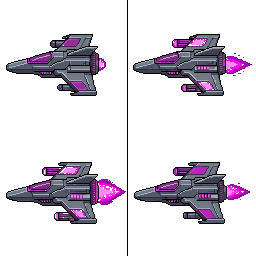
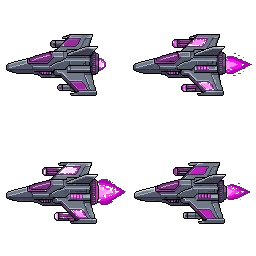
balance: aumentar tamany, vida, spawn y onda expansiva de las minas

diff --git a/Mina.java b/Mina.java
@@ -20,7 +20,7 @@ public class Mina {
   // METODES
   public void actualitzar() {
     if (explotant) {
-      radiExplosio += 5; // L'explosió es fa gran (física de dany expansiu)
+      radiExplosio += 10; // NOU: L'ona expansiva creix el doble de ràpid (abans 5)
       if (this.animacioExplosio != null) {
         this.animacioExplosio.update();
       }
@@ -50,7 +50,8 @@ public class Mina {
         this.animacioExplosio.setLoop(false);
         this.animacioExplosio.setDelay(2);
       }
-      this.animacioExplosio.display(this.posicio, 1, (float)this.tamany / 32.0f);
+      // NOU: Dibuixem l'explosió el doble de gran per a coincidir amb el seu gran radi expansiu (escala /16.0f en comptes de /32.0f)
+      this.animacioExplosio.display(this.posicio, 1, (float)this.tamany / 16.0f);
     } else {
       if (this.animacio == null) {
         // Spritesheet de 1024x1024 en quadrícula 2x2 -> 4 frames de 512x512
@@ -71,9 +72,9 @@ public class Mina {
     // Xicoteta velocitat aleatòria per a que deriven lentament com si suraren
     this.velocitatX = (float)Math.random() * 1.5f - 0.2f; 
     this.velocitatY = (float)Math.random() * 1.5f - 0.75f; 
-    this.tamany = 50; // Mida original de la mina
+    this.tamany = 75; // NOU: Mida de la mina incrementada a 75 px (més gran i amenaçadora)
     this.actiu = true;
-    this.vida = 50; // NOU: Increment de vida a 50 (mateixa que els meteorits, calen 5 tirs per a detonar-la)
+    this.vida = 100; // NOU: Més vida per a la mina (100 HP, calen 10 tirs de jugador per detonar-la)
     this.explotant = false;
     this.radiExplosio = this.tamany;
     this.haDanyatJugador = false;

diff --git a/Miner.java b/Miner.java
@@ -14,7 +14,7 @@ public class Miner extends Enemic {
     this.velocitat = 1.5f;
     this.vel = this.direccio.copy().mult(velocitat);
     this.temporizador = 0;
-    this.cooldown = 100; // Ara posa mines més ràpid (abans 150)
+    this.cooldown = 60; // NOU: Posa mines molt més ràpid (abans 100) per a ser més molest
     this.posicioJugador = posicioJugador;
     this.tamany = 65; // NOU: Increment de tamany a 65 px per a reflectir que és un enemic pesat
   }
